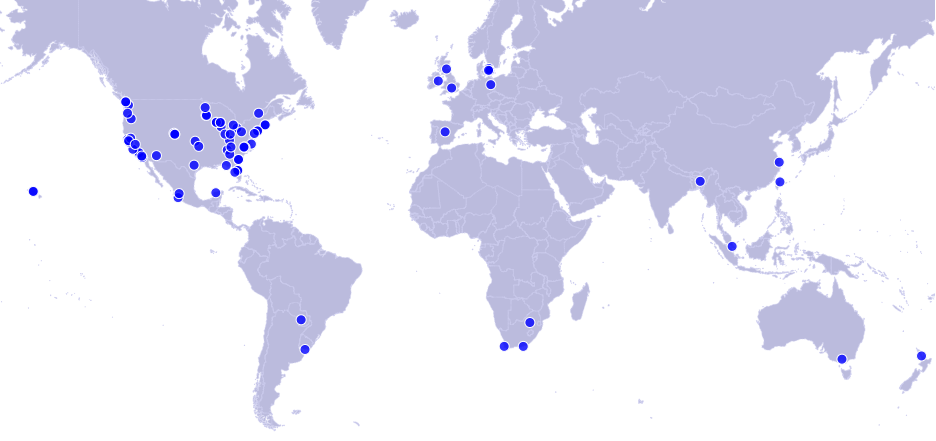
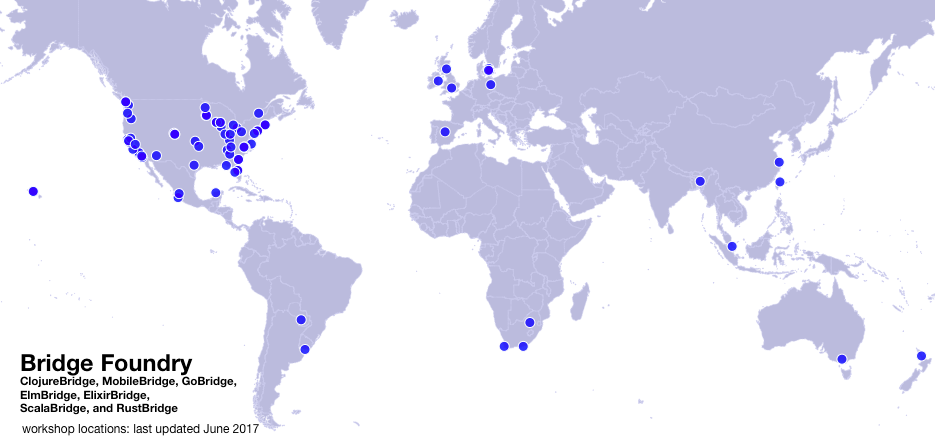
words on map, edited post

diff --git a/_posts/2017-06-20-bridge-foundry-workshops.md b/_posts/2017-06-20-bridge-foundry-workshops.md
@@ -1,17 +1,31 @@
 ---
 layout: post
-title: Bridge Foundry workshops all over the world
+title: community initiatives all over the world
 tags: draft
 ---
 
-Bridge Foundry is a network of Bridges.  From its beginnings as RailsBridge,
-we have grown to include 8 Bridges, which now include ClojureBridge, MobileBridge,
-GoBridge, ElmBridge, ElixirBridge, ScalaBridge, and RustBridge. Each bridge 
-focuses on different technologies with people sharing their skills, every event
-connects us to people in our communities who are underserved, which is turns 
-out to be the majority of most populations.  Every event is organized by 
-volunteers with teachers and TAs who range from industry experts to people who
-know just a little bit more than the students.  With technology always changing
-everyone learns a lot by teaching.
+Bridge Foundry volunteers share skills by creating open source curriculum, 
+at free teaching events and in online mcommunities. Through teaching and 
+organizing, we learn to be leaders, as well as levelling up our own tech skills.
+Most workshops are organized by independent communities, sometimes by one
+individual who has been to a workshop at a conference and then decided to 
+create a community where they live.  
+
+From its beginnings as RailsBridge, we have grown to include 8 Bridges, which 
+now include ClojureBridge, MobileBridge, GoBridge, ElmBridge, ElixirBridge, 
+ScalaBridge, and RustBridge. 
+
+Each bridge focuses on different technologies. Every event connects working 
+software developers and community or industry leaders to people 
+in our communities who are underserved intech, which is actually a majority of 
+the people in our society.  
+
+Every event is organized by volunteers with teachers and TAs who range 
+from industry experts to people who know just a little bit more than the 
+students.  With technology always changing both teachers and students learn 
+together.
 
 ![map with dots all over the world](/images/blog/2017-06-workshop-map.png)
+
+If you are interested in getting invovled or supporting this work, please
+[get in touch](mailto:hello@bridgefoundry.org)!
